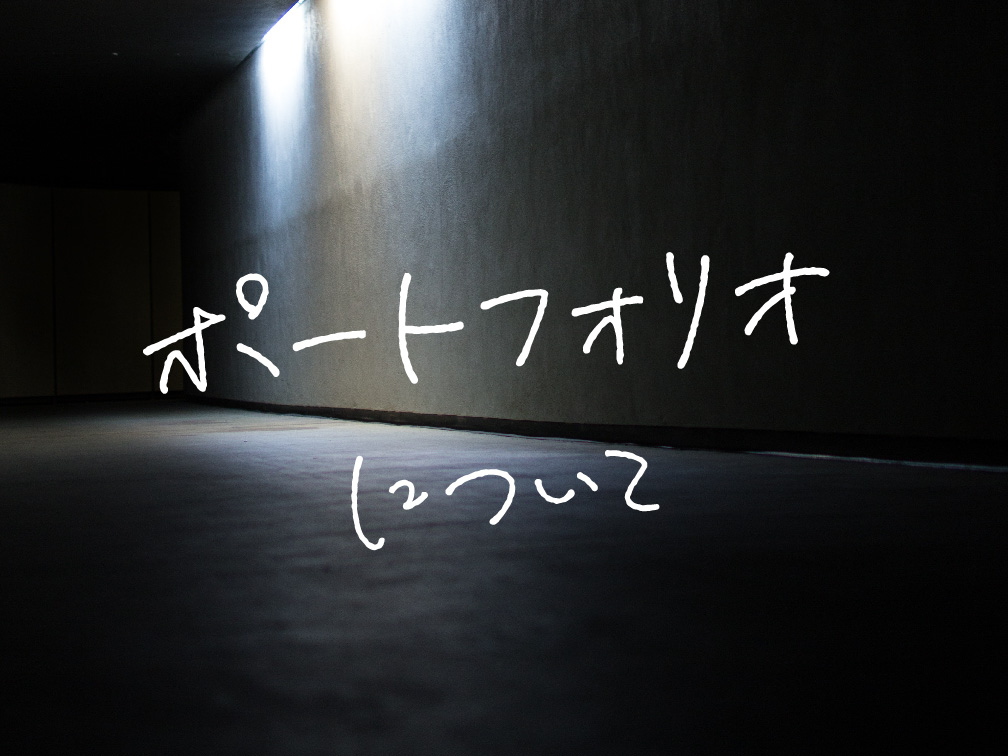
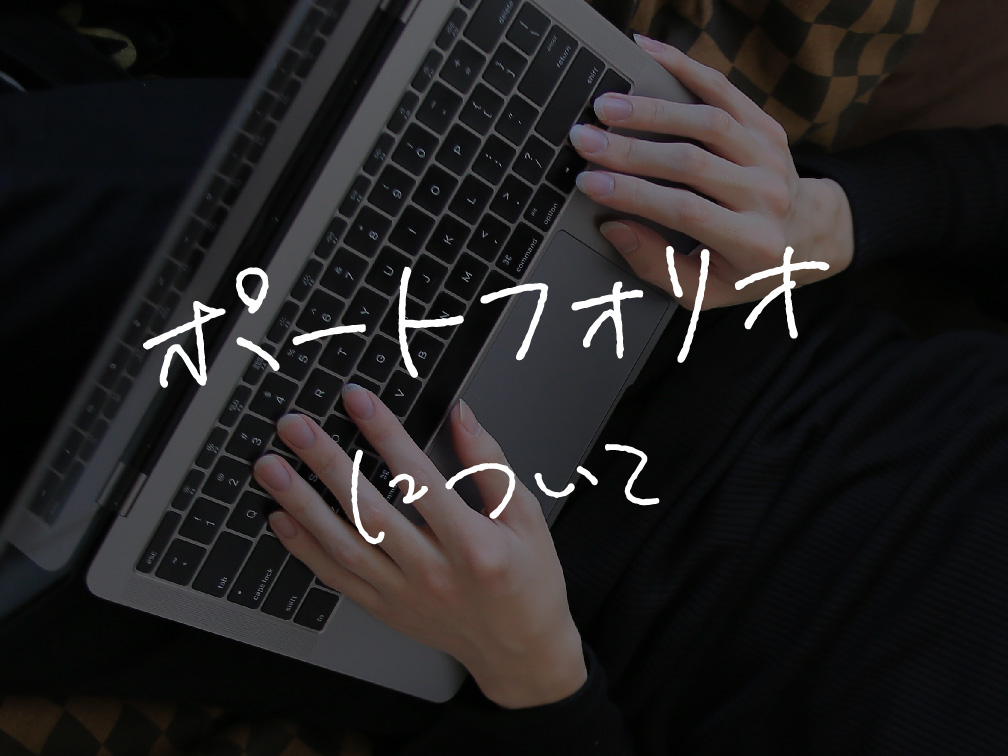
作品詳細へのサムネイル変更 refs #13

diff --git a/src/pages/index.js b/src/pages/index.js
@@ -3,20 +3,13 @@ import SEO from "../components/seo";
 import Layout from "../components/layout";
 import TopTitle from "../components/topTitle";
 
-import aboutPortfolio from "../images/aboutportfolio.jpg";
+import aboutThisPortfolio from "../images/aboutportfolio.jpg";
 import aboutMe from "../images/aboutme.jpg";
 
 import styled from "styled-components";
 
-const AboutPortfolio = styled.div`
-  background-image: url(${aboutPortfolio});
-  background-size: contain;
-  grid-column: span 6;
-  height: 37.8rem;
-`;
-
-const AboutMe = styled.div`
-  background-image: url(${aboutMe});
+const Work = styled.div`
+  background-image: url(${props => props.title});
   background-size: contain;
   grid-column: span 6;
   height: 37.8rem;
@@ -26,7 +19,7 @@ export default () => (
   <Layout>
     <SEO title="Keisuke Watanuki Portfolio" />
     <TopTitle />
-    <AboutPortfolio />
-    <AboutMe />
+    <Work title={aboutThisPortfolio} />
+    <Work title={aboutMe} />
   </Layout>
 );
